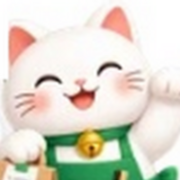
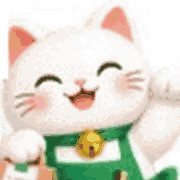
Optimize assets and add a static build for Vercel
Convert images to WebP at 2x display size (760 KB to about 42 KB), add
scripts/build.py that writes a minified dist/ bundle, and document the
phone experience and deploy steps.

Claude-Session: https://claude.ai/code/session_01WGi3ncqK17R7q8ZGHJBVzE

diff --git a/index.html b/index.html
@@ -691,7 +691,7 @@ svg.i { width: 1em; height: 1em; flex: none; fill: none; stroke: currentColor; s
 
 <main class="stage">
   <aside class="notes">
-    <div class="brand"><img src="assets/mascot-head.png" alt="">GrabScale · MeeTang (น้องมีตัง)</div>
+    <div class="brand"><img src="assets/mascot-head.webp" alt="">GrabScale · MeeTang (น้องมีตัง)</div>
 
     <div class="topbar">
     <div class="tabs" role="tablist" aria-label="Prototype screens">
@@ -768,14 +768,14 @@ svg.i { width: 1em; height: 1em; flex: none; fill: none; stroke: currentColor; s
         <div class="statusbar"><span>2:20</span><span class="sys"><svg class="i"><use href="#i-sig"/></svg><svg class="i"><use href="#i-wifi"/></svg><svg class="i"><use href="#i-bat"/></svg></span></div>
 
         <button class="push" id="homePush" data-go="alert" data-focus="fix">
-          <img class="avatar" src="assets/mascot-head.png" alt="">
+          <img class="avatar" src="assets/mascot-head.webp" alt="">
           <span class="txt"><span class="meta">GrabScale · now</span><span class="msg" style="display:block">Sales dipped today. Fix is ready</span></span>
           <svg class="i chev"><use href="#i-chev"/></svg>
         </button>
 
         <div class="home-body">
           <div class="widget" aria-label="GrabScale widget">
-            <div class="widget-top"><img class="avatar xs" src="assets/mascot-head.png" alt="">GrabScale · updated 2:20 PM</div>
+            <div class="widget-top"><img class="avatar xs" src="assets/mascot-head.webp" alt="">GrabScale · updated 2:20 PM</div>
             <div class="widget-cols">
               <div>
                 <div class="w-label">Today's sales</div>
@@ -792,7 +792,7 @@ svg.i { width: 1em; height: 1em; flex: none; fill: none; stroke: currentColor; s
                 <div class="w-label">MeeTang tip</div>
                 <div class="w-tip-title" id="wTipTitle">6 dishes have no photo</div>
                 <div class="w-tip-sub" id="wTipSub">Photos are ready for you</div>
-                <div class="w-cat"><img src="assets/mascot.png" alt="MeeTang"></div>
+                <div class="w-cat"><img src="assets/mascot.webp" alt="MeeTang"></div>
               </div>
             </div>
             <div class="widget-actions">
@@ -803,7 +803,7 @@ svg.i { width: 1em; height: 1em; flex: none; fill: none; stroke: currentColor; s
           <div class="widget-name">GrabScale</div>
 
           <div class="apps">
-            <button class="app" data-go="alert"><span class="ico grab"><img src="assets/mascot-head.png" alt=""></span>GrabScale</button>
+            <button class="app" data-go="alert"><span class="ico grab"><img src="assets/mascot-head.webp" alt=""></span>GrabScale</button>
             <div class="app"><span class="ico" style="background:#F25C54"><svg class="i"><use href="#i-cal"/></svg></span>Calendar</div>
             <div class="app"><span class="ico" style="background:#4C8DF6"><svg class="i"><use href="#i-map"/></svg></span>Maps</div>
             <div class="app"><span class="ico" style="background:#F6B73C"><svg class="i"><use href="#i-note"/></svg></span>Notes</div>
@@ -827,14 +827,14 @@ svg.i { width: 1em; height: 1em; flex: none; fill: none; stroke: currentColor; s
         <div class="statusbar"><span>2:20 PM</span><span class="sys"><svg class="i"><use href="#i-sig"/></svg><svg class="i"><use href="#i-wifi"/></svg><svg class="i"><use href="#i-bat"/></svg></span></div>
         <div class="scroll" id="alertScroll">
           <button class="push inapp-push" id="inappPush" data-focus="fix">
-            <img class="avatar" src="assets/mascot-head.png" alt="">
+            <img class="avatar" src="assets/mascot-head.webp" alt="">
             <span class="txt"><span class="meta">GrabScale · now</span><span class="msg" style="display:block">Sales dipped today. Fix is ready</span></span>
             <svg class="i chev"><use href="#i-chev"/></svg>
           </button>
 
           <div class="appbar">
             <button class="back" data-go="home" aria-label="Back to home screen"><svg class="i"><use href="#i-back"/></svg></button>
-            <img class="avatar" src="assets/mascot-head.png" alt="">
+            <img class="avatar" src="assets/mascot-head.webp" alt="">
             <div><div class="t">MeeTang</div><div class="s">Pa Noi Isan Kitchen</div></div>
           </div>
 
@@ -859,11 +859,11 @@ svg.i { width: 1em; height: 1em; flex: none; fill: none; stroke: currentColor; s
             <div class="fix-card" id="fixCard">
               <span class="ready"><svg class="i"><use href="#i-spark"/></svg>Ready for you</span>
               <h3>We made photos for your dishes</h3>
-              <div class="social"><img src="assets/faces.png" alt="">Stalls near you with photos get more orders</div>
+              <div class="social"><img src="assets/faces.webp" alt="">Stalls near you with photos get more orders</div>
               <div class="dishes">
-                <button class="dish" data-dish="Som Tam" aria-pressed="true"><span class="ph"><img src="assets/somtam.jpg" alt="Som Tam photo"><span class="tick"><svg class="i"><use href="#i-check"/></svg></span></span>Som Tam</button>
-                <button class="dish" data-dish="Larb Moo" aria-pressed="true"><span class="ph"><img src="assets/larbmoo.jpg" alt="Larb Moo photo"><span class="tick"><svg class="i"><use href="#i-check"/></svg></span></span>Larb Moo</button>
-                <button class="dish" data-dish="Gai Yang" aria-pressed="true"><span class="ph"><img src="assets/gaiyang.jpg" alt="Gai Yang photo"><span class="tick"><svg class="i"><use href="#i-check"/></svg></span></span>Gai Yang</button>
+                <button class="dish" data-dish="Som Tam" aria-pressed="true"><span class="ph"><img src="assets/somtam.webp" alt="Som Tam photo"><span class="tick"><svg class="i"><use href="#i-check"/></svg></span></span>Som Tam</button>
+                <button class="dish" data-dish="Larb Moo" aria-pressed="true"><span class="ph"><img src="assets/larbmoo.webp" alt="Larb Moo photo"><span class="tick"><svg class="i"><use href="#i-check"/></svg></span></span>Larb Moo</button>
+                <button class="dish" data-dish="Gai Yang" aria-pressed="true"><span class="ph"><img src="assets/gaiyang.webp" alt="Gai Yang photo"><span class="tick"><svg class="i"><use href="#i-check"/></svg></span></span>Gai Yang</button>
               </div>
               <div class="fix-note">6 of 10 dishes have no photo. Nothing changes until you approve.</div>
               <div class="applied" id="appliedNote"><svg class="i"><use href="#i-check"/></svg><span id="appliedText">3 photos added to your menu</span></div>
@@ -891,7 +891,7 @@ svg.i { width: 1em; height: 1em; flex: none; fill: none; stroke: currentColor; s
       <section class="screen" id="screen-learn" hidden>
         <div class="statusbar"><span>2:40 PM</span><span class="sys"><svg class="i"><use href="#i-sig"/></svg><svg class="i"><use href="#i-wifi"/></svg><svg class="i"><use href="#i-bat"/></svg></span></div>
         <div class="learn-bar">
-          <img class="avatar sm" src="assets/mascot-head.png" alt="">
+          <img class="avatar sm" src="assets/mascot-head.webp" alt="">
           <span class="t">Learn while you work</span>
           <div class="pill-select"><button class="dialect-btn" aria-haspopup="menu"><svg class="i bubble"><use href="#i-bubble"/></svg><span class="dl">Isan</span><svg class="i chev"><use href="#i-down"/></svg></button></div>
           <button class="listen" id="listenBtn" aria-pressed="false"><svg class="i"><use href="#i-vol"/></svg>Listen</button>
@@ -925,8 +925,8 @@ svg.i { width: 1em; height: 1em; flex: none; fill: none; stroke: currentColor; s
                 </div>
                 <h4>Customers choose with their eyes</h4>
                 <div class="compare">
-                  <figure><img src="assets/good-photo.jpg" alt="Bright, close-up photo of som tam"><figcaption class="yes">Like this</figcaption></figure>
-                  <figure><img src="assets/bad-photo.jpg" alt="Dark, far-away photo of som tam"><figcaption class="no">Not this</figcaption></figure>
+                  <figure><img src="assets/good-photo.webp" alt="Bright, close-up photo of som tam"><figcaption class="yes">Like this</figcaption></figure>
+                  <figure><img src="assets/bad-photo.webp" alt="Dark, far-away photo of som tam"><figcaption class="no">Not this</figcaption></figure>
                 </div>
                 <button class="btn-primary try" data-try="photos">Try it now</button>
               </div>
@@ -990,7 +990,7 @@ svg.i { width: 1em; height: 1em; flex: none; fill: none; stroke: currentColor; s
         <div class="rec-bar">
           <button class="back" data-go="home" aria-label="Back to home screen"><svg class="i"><use href="#i-back"/></svg></button>
           <div class="head"><div class="t">Record today</div><div class="s">Tue 15 Oct</div></div>
-          <img class="coin-cat" src="assets/mascot-coin.png" alt="MeeTang">
+          <img class="coin-cat" src="assets/mascot-coin.webp" alt="MeeTang">
           <div class="pill-select"><button class="dialect-btn" aria-haspopup="menu"><svg class="i bubble"><use href="#i-bubble"/></svg><span class="dl">Isan</span><svg class="i chev"><use href="#i-down"/></svg></button></div>
           <button class="listen" data-say="record" aria-pressed="false"><svg class="i"><use href="#i-vol"/></svg>Listen</button>
         </div>
@@ -1013,7 +1013,7 @@ svg.i { width: 1em; height: 1em; flex: none; fill: none; stroke: currentColor; s
               <div class="src" id="qrRow">
                 <span class="tile teal"><svg class="i"><use href="#i-qr"/></svg></span>
                 <div><div class="nm">Bank QR sales</div><div class="sb" id="qrSub">Screenshot uploaded</div></div>
-                <div class="qr-mid"><span class="thumb-scan"><img src="assets/qr-shot.jpg" alt="Bank app screenshot"></span><span class="tag-read" id="qrTag">Read <svg class="i"><use href="#i-check"/></svg></span></div>
+                <div class="qr-mid"><span class="thumb-scan"><img src="assets/qr-shot.webp" alt="Bank app screenshot"></span><span class="tag-read" id="qrTag">Read <svg class="i"><use href="#i-check"/></svg></span></div>
                 <div class="qr-right"><span class="val">฿620</span><button class="btn-mini" id="qrUpload">Upload</button></div>
               </div>
               <div class="src cash">
@@ -1037,7 +1037,7 @@ svg.i { width: 1em; height: 1em; flex: none; fill: none; stroke: currentColor; s
               </div>
               <div class="snap-row" id="snapRow">
                 <button class="snap-btn" id="snapBtn"><svg class="i"><use href="#i-camera"/></svg>Snap receipt</button>
-                <span class="thumb-scan"><img src="assets/receipt.jpg" alt="Market receipt"></span>
+                <span class="thumb-scan"><img src="assets/receipt.webp" alt="Market receipt"></span>
                 <span class="read" id="snapRead">3 items read <svg class="i"><use href="#i-check"/></svg></span>
               </div>
               <div class="items" id="items"></div>
@@ -1074,7 +1074,7 @@ svg.i { width: 1em; height: 1em; flex: none; fill: none; stroke: currentColor; s
               <button role="tab" data-period="month" aria-selected="false">Month</button>
             </div>
           </div>
-          <img class="coin-cat" src="assets/mascot-coin.png" alt="MeeTang">
+          <img class="coin-cat" src="assets/mascot-coin.webp" alt="MeeTang">
           <button class="listen" data-say="money" aria-pressed="false"><svg class="i"><use href="#i-vol"/></svg>Listen</button>
         </div>
         <div class="scroll">
@@ -1104,7 +1104,7 @@ svg.i { width: 1em; height: 1em; flex: none; fill: none; stroke: currentColor; s
             <div class="mcard">
               <div class="mcard-h"><h3>Profit per plate</h3><span class="r">Profit • Margin</span></div>
               <div class="plates" id="plates"></div>
-              <div class="tipbox" id="priceTip"><img src="assets/mascot-coin.png" alt=""><span id="priceTipTxt">Raise Gai Yang to ฿80 to earn ฿24 per plate</span><button class="btn-mini" id="changePrice">Change price</button></div>
+              <div class="tipbox" id="priceTip"><img src="assets/mascot-coin.webp" alt=""><span id="priceTipTxt">Raise Gai Yang to ฿80 to earn ฿24 per plate</span><button class="btn-mini" id="changePrice">Change price</button></div>
             </div>
 
             <div class="mcard">
@@ -1525,13 +1525,13 @@ svg.i { width: 1em; height: 1em; flex: none; fill: none; stroke: currentColor; s
   state.saved = true;
   state.photosAdded = 0;
   var items = [
-    { icon: "assets/ing-chicken.png", name: "Chicken", qty: 5, unit: "kg", price: 450, cat: "Meat & fish" },
-    { icon: "assets/ing-papaya.png", name: "Green papaya", qty: 10, unit: "kg", price: 200, cat: "Vegetables" },
-    { icon: "assets/ing-rice.png", name: "Sticky rice", qty: 10, unit: "kg", price: 380, cat: "Rice & noodles" }
+    { icon: "assets/ing-chicken.webp", name: "Chicken", qty: 5, unit: "kg", price: 450, cat: "Meat & fish" },
+    { icon: "assets/ing-papaya.webp", name: "Green papaya", qty: 10, unit: "kg", price: 200, cat: "Vegetables" },
+    { icon: "assets/ing-rice.webp", name: "Sticky rice", qty: 10, unit: "kg", price: 380, cat: "Rice & noodles" }
   ];
   var EMOJI = ["🍗", "🥬", "🍚", "🥚", "🧄", "🌶", "🥩", "🐟", "🧂", "🧊", "🥡", "🔥"];
   var esc = function (t) { return String(t).replace(/[&<>"]/g, function (c) { return { "&": "&amp;", "<": "&lt;", ">": "&gt;", '"': "&quot;" }[c]; }); };
-  var iconHTML = function (ic) { return /\.(png|jpe?g)$/.test(ic) ? '<img src="' + ic + '" alt="">' : '<span class="emo">' + ic + "</span>"; };
+  var iconHTML = function (ic) { return /\.(png|jpe?g|webp)$/.test(ic) ? '<img src="' + ic + '" alt="">' : '<span class="emo">' + ic + "</span>"; };
   var qtyTxt = function (it) { return (+it.qty).toLocaleString("en-US", { maximumFractionDigits: 2 }) + " " + it.unit; };
   /* Stall menu that MeeTang analysed (from the merchant's Grab menu) */
   var DISHES = ["Som Tam Thai", "Som Tam Poo Pla Ra", "Tam Talay", "Larb Moo", "Nam Tok Moo", "Kor Moo Yang", "Gai Yang", "Tom Saep", "Sai Krok Isan", "Sticky rice"];
@@ -1806,9 +1806,9 @@ svg.i { width: 1em; height: 1em; flex: none; fill: none; stroke: currentColor; s
      ========================================================= */
   var period = "week";
   var PLATES = [
-    { n: "Larb Moo", img: "assets/larbmoo.jpg", price: 60, cost: [["Minced pork 120 g", 22], ["Herbs & shallot", 6], ["Toasted rice & chili", 3], ["Sticky rice", 5]] },
-    { n: "Som Tam", img: "assets/somtam.jpg", price: 45, cost: [["Green papaya", 8], ["Tomato & long bean", 6], ["Pla ra & fish sauce", 5], ["Peanuts & dried shrimp", 4], ["Palm sugar & lime", 4]] },
-    { n: "Gai Yang", img: "assets/gaiyang.jpg", price: 70, cost: [["Half chicken", 42], ["Marinade", 6], ["Charcoal", 4], ["Jaew dipping sauce", 4]] }
+    { n: "Larb Moo", img: "assets/larbmoo.webp", price: 60, cost: [["Minced pork 120 g", 22], ["Herbs & shallot", 6], ["Toasted rice & chili", 3], ["Sticky rice", 5]] },
+    { n: "Som Tam", img: "assets/somtam.webp", price: 45, cost: [["Green papaya", 8], ["Tomato & long bean", 6], ["Pla ra & fish sauce", 5], ["Peanuts & dried shrimp", 4], ["Palm sugar & lime", 4]] },
+    { n: "Gai Yang", img: "assets/gaiyang.webp", price: 70, cost: [["Half chicken", 42], ["Marinade", 6], ["Charcoal", 4], ["Jaew dipping sauce", 4]] }
   ];
   var costOf = function (pl) { return pl.cost.reduce(function (a, c) { return a + c[1]; }, 0); };
 

diff --git a/scripts/build.py b/scripts/build.py
@@ -1,0 +1,47 @@
+"""Build a small static bundle for hosting (Vercel): dist/ with minified
+markup, CSS split in two files, one JS file, and the assets.
+
+Usage: python3 scripts/build.py   (needs npx html-minifier-terser on PATH or MINIFIER env)
+"""
+import os, re, shutil, subprocess, sys, json
+
+ROOT = os.path.dirname(os.path.dirname(os.path.abspath(__file__)))
+DIST = os.path.join(ROOT, "dist")
+MIN = os.environ.get("MINIFIER", "npx --yes html-minifier-terser@7.2.0")
+
+shutil.rmtree(DIST, ignore_errors=True)
+os.makedirs(DIST)
+shutil.copytree(os.path.join(ROOT, "assets"), os.path.join(DIST, "assets"))
+for f in ("manifest.webmanifest", "vercel.json"):
+    shutil.copy(os.path.join(ROOT, f), DIST)
+
+tmp = os.path.join(DIST, "_min.html")
+subprocess.run(MIN.split() + [
+    "--collapse-whitespace", "--conservative-collapse", "--remove-comments",
+    "--minify-css", "true", "--minify-js", '{"compress":{"passes":2},"mangle":true}',
+    "--remove-redundant-attributes", "--remove-attribute-quotes",
+    "-o", tmp, os.path.join(ROOT, "index.html")], check=True)
+html = open(tmp, encoding="utf-8").read()
+os.remove(tmp)
+
+css = re.search(r"<style>(.*?)</style>", html, re.S).group(1)
+js = re.search(r"<script>(.*?)</script>", html, re.S).group(1)
+
+# split CSS at a rule boundary near the middle (order is preserved by the two <link>s)
+mid = len(css) // 2
+cut = css.find("}", mid) + 1
+while css[:cut].count("{") != css[:cut].count("}"):
+    cut = css.find("}", cut) + 1
+parts = [css[:cut], css[cut:]]
+for i, part in enumerate(parts, 1):
+    open(os.path.join(DIST, f"app-{i}.css"), "w", encoding="utf-8").write(part)
+open(os.path.join(DIST, "app.js"), "w", encoding="utf-8").write(js)
+
+html = html.replace("<style>" + css + "</style>", '<link rel=stylesheet href=app-1.css><link rel=stylesheet href=app-2.css>')
+html = html.replace("<script>" + js + "</script>", "<script src=app.js></script>")
+open(os.path.join(DIST, "index.html"), "w", encoding="utf-8").write(html)
+
+for dirpath, _, files in os.walk(DIST):
+    for f in sorted(files):
+        p = os.path.join(dirpath, f)
+        print(f"{os.path.getsize(p):>7}  {os.path.relpath(p, DIST)}")

diff --git a/README.md b/README.md
@@ -21,3 +21,11 @@ Deep links: `index.html#home`, `#alert`, `#learn`, `#record`, `#money`.
 Voice playback uses the browser's Thai text-to-speech voice when one is installed (Safari/iOS, Chrome on most systems); otherwise the waveform animates without sound.
 
 Food photos and the mascot in `assets/` are cropped from the team's UI mockup.
+
+## Phone experience
+
+On a phone the prototype runs full-screen like an app: the tab bar switches screens, the **i** button shows the notes for the current screen, sheets close by dragging down, and the home notification can be swiped away. It can be added to the home screen (PWA manifest included).
+
+## Build and deploy
+
+`python3 scripts/build.py` writes a minified static bundle to `dist/` (markup, `app-1.css`, `app-2.css`, `app.js`, assets). Deploy `dist/` to any static host; it is deployed on Vercel as a static site with no build step.
